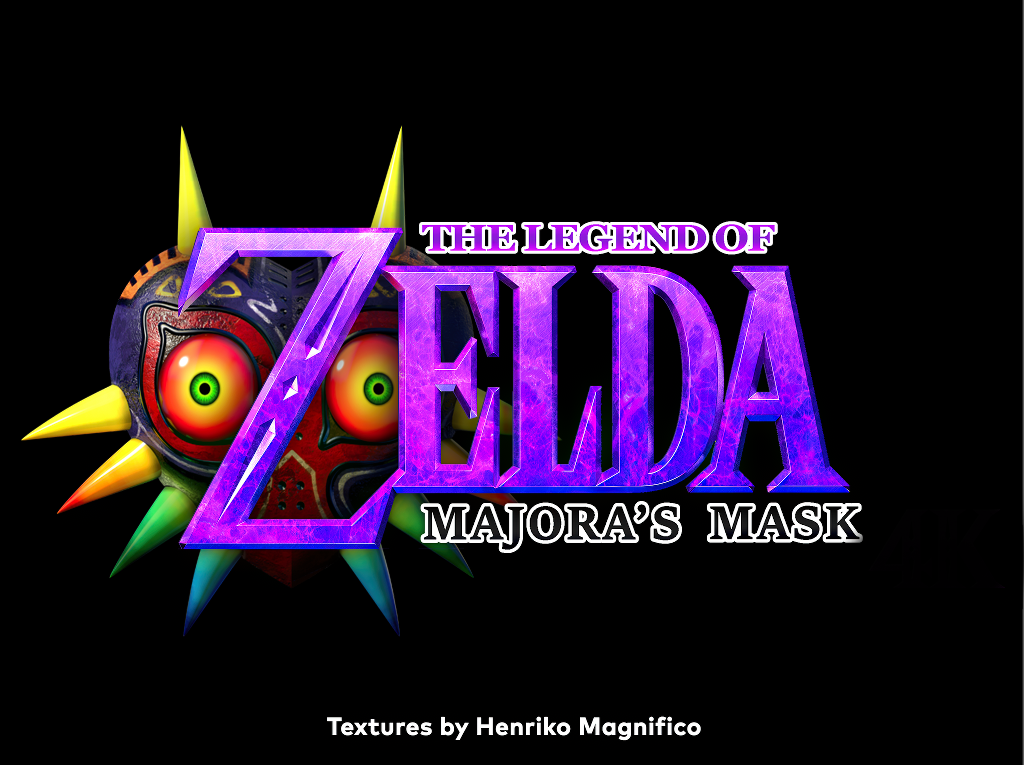
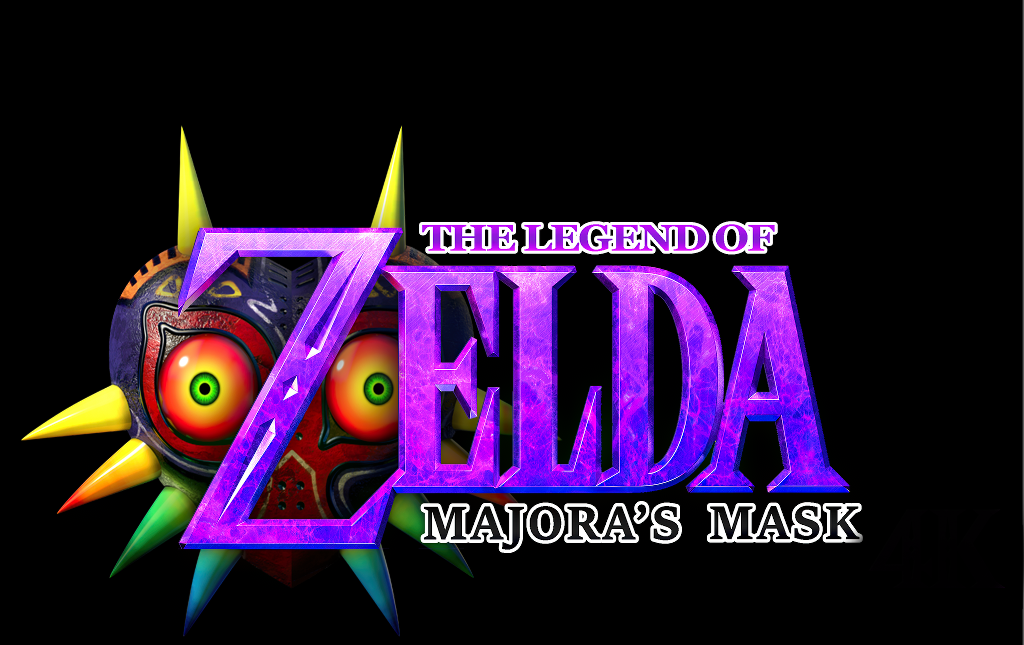
styling changes to landing page

diff --git a/main_app/templates/home.html b/main_app/templates/home.html
@@ -12,6 +12,7 @@
 <div class="title-container">
   <img src="{% static 'images/title.png' %}" class="card-img-top" alt="Majoras Mask Image">
 </div>
+<h1 class='display-4'>A Terribly Fated Tracker</h1>
 {% if not user.is_authenticated %}
     <div class="card text-white bg-dark border-danger mb-3" style="width: 20rem;">
       <form action="{% url 'home' %}" method="post" class="card-body text-danger">

diff --git a/main_app/static/css/home.css b/main_app/static/css/home.css
@@ -8,8 +8,8 @@ section {
 }
 
 .title-container {
-  width: 60%;
-  margin-top: -10%;
+  width: 55%;
+  margin-top: -5%;
 }
 
 body {
@@ -24,4 +24,8 @@ input {
 
 .btn {
   color: black;
+}
+
+h1 {
+  color: red;
 }
